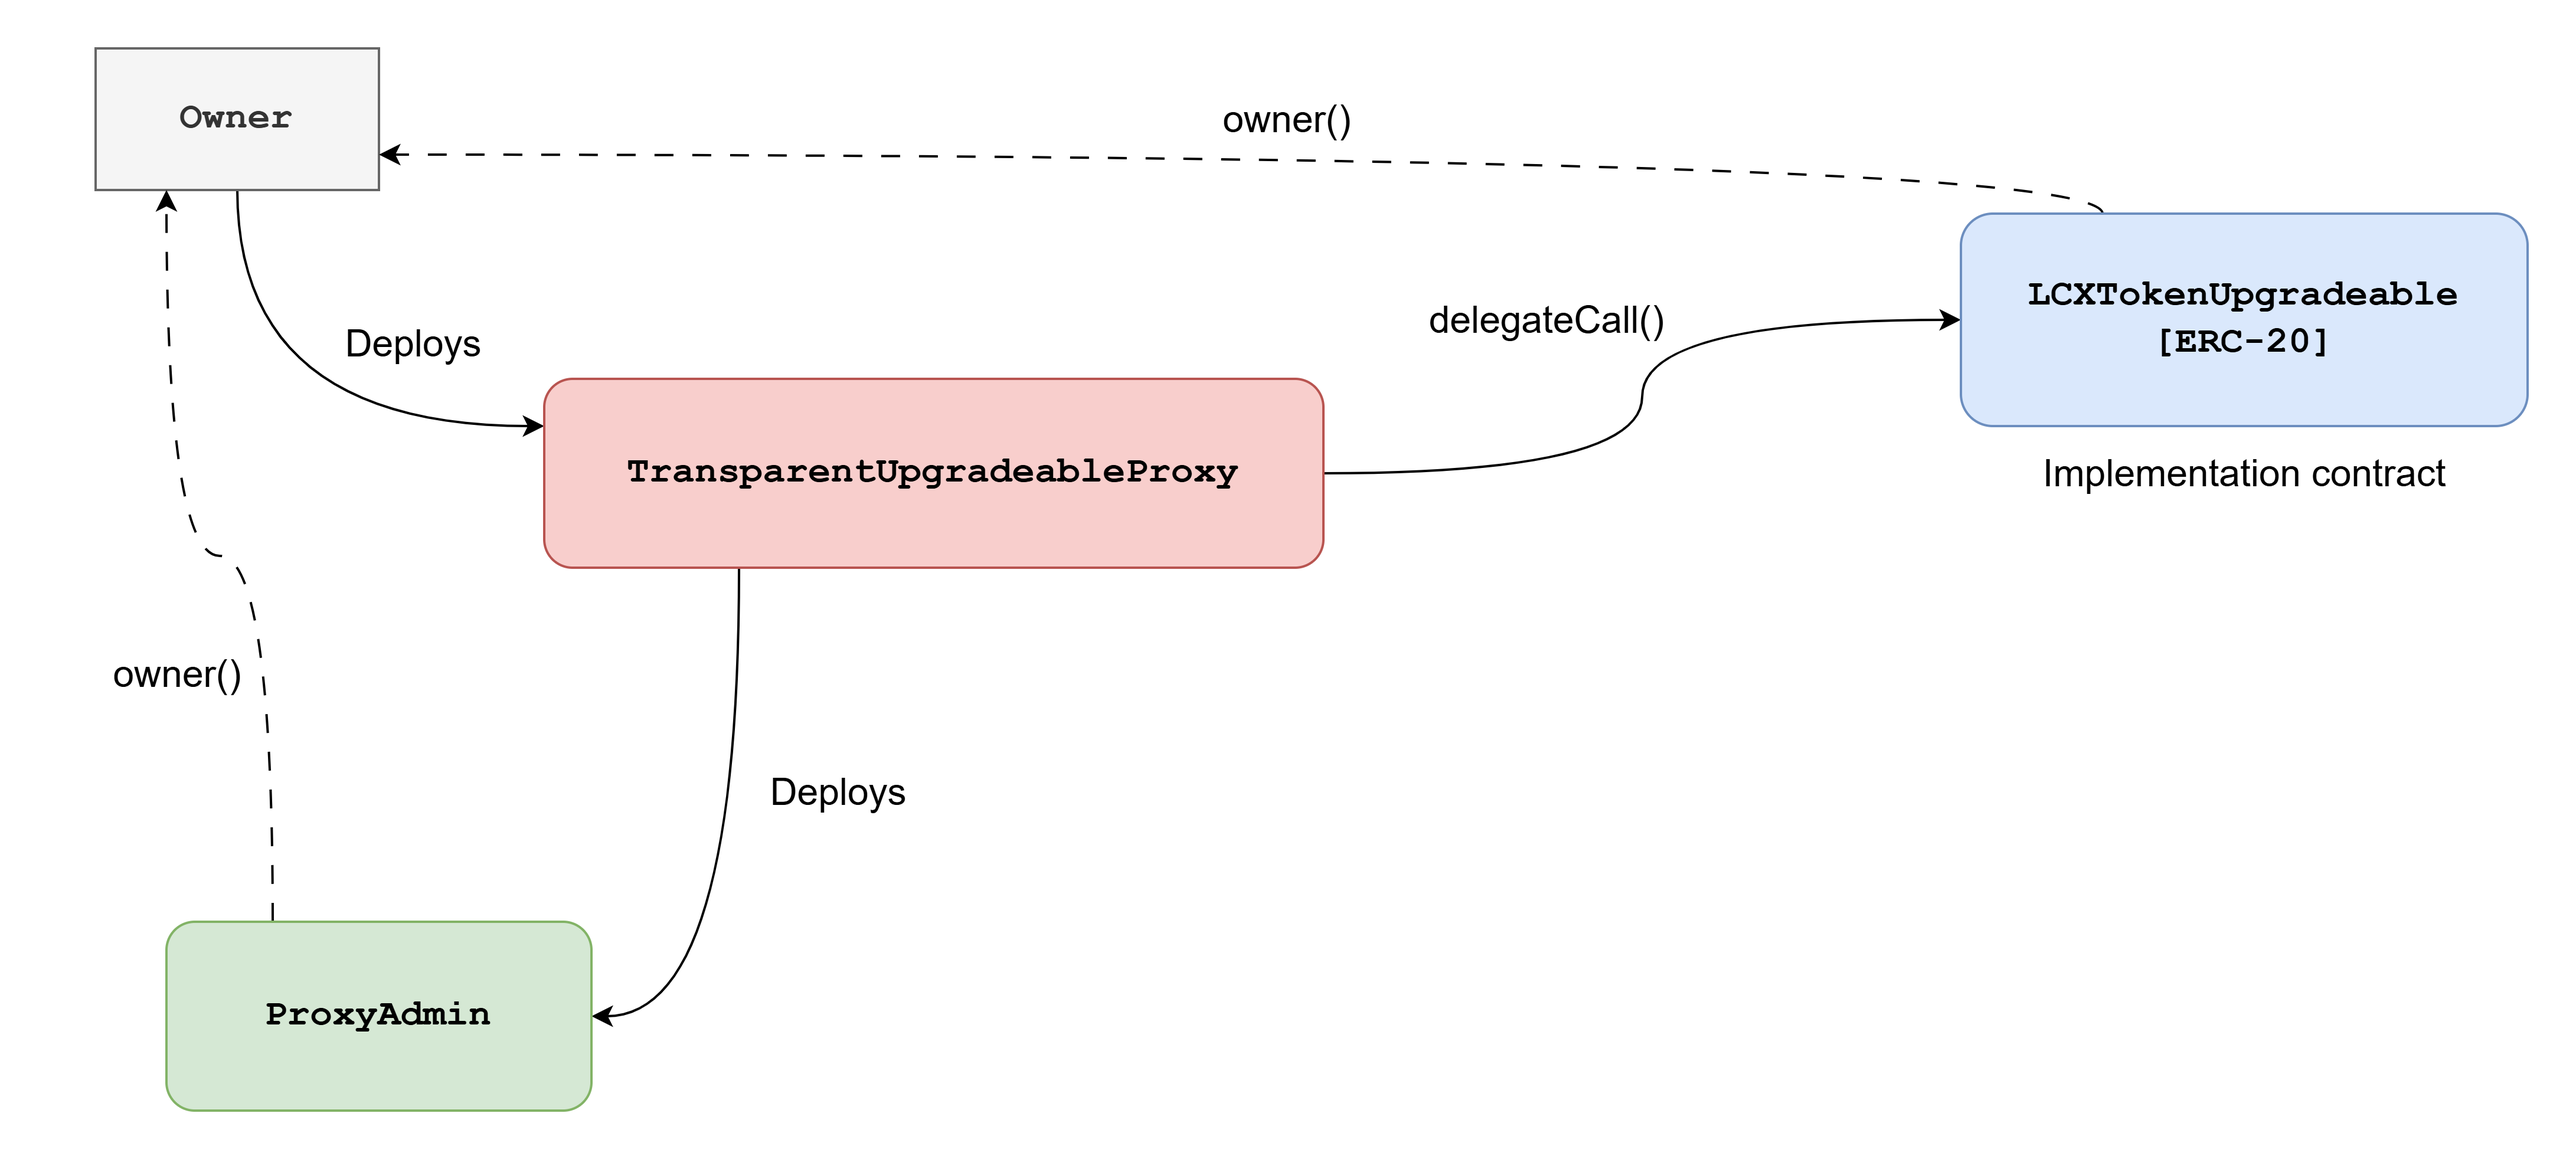
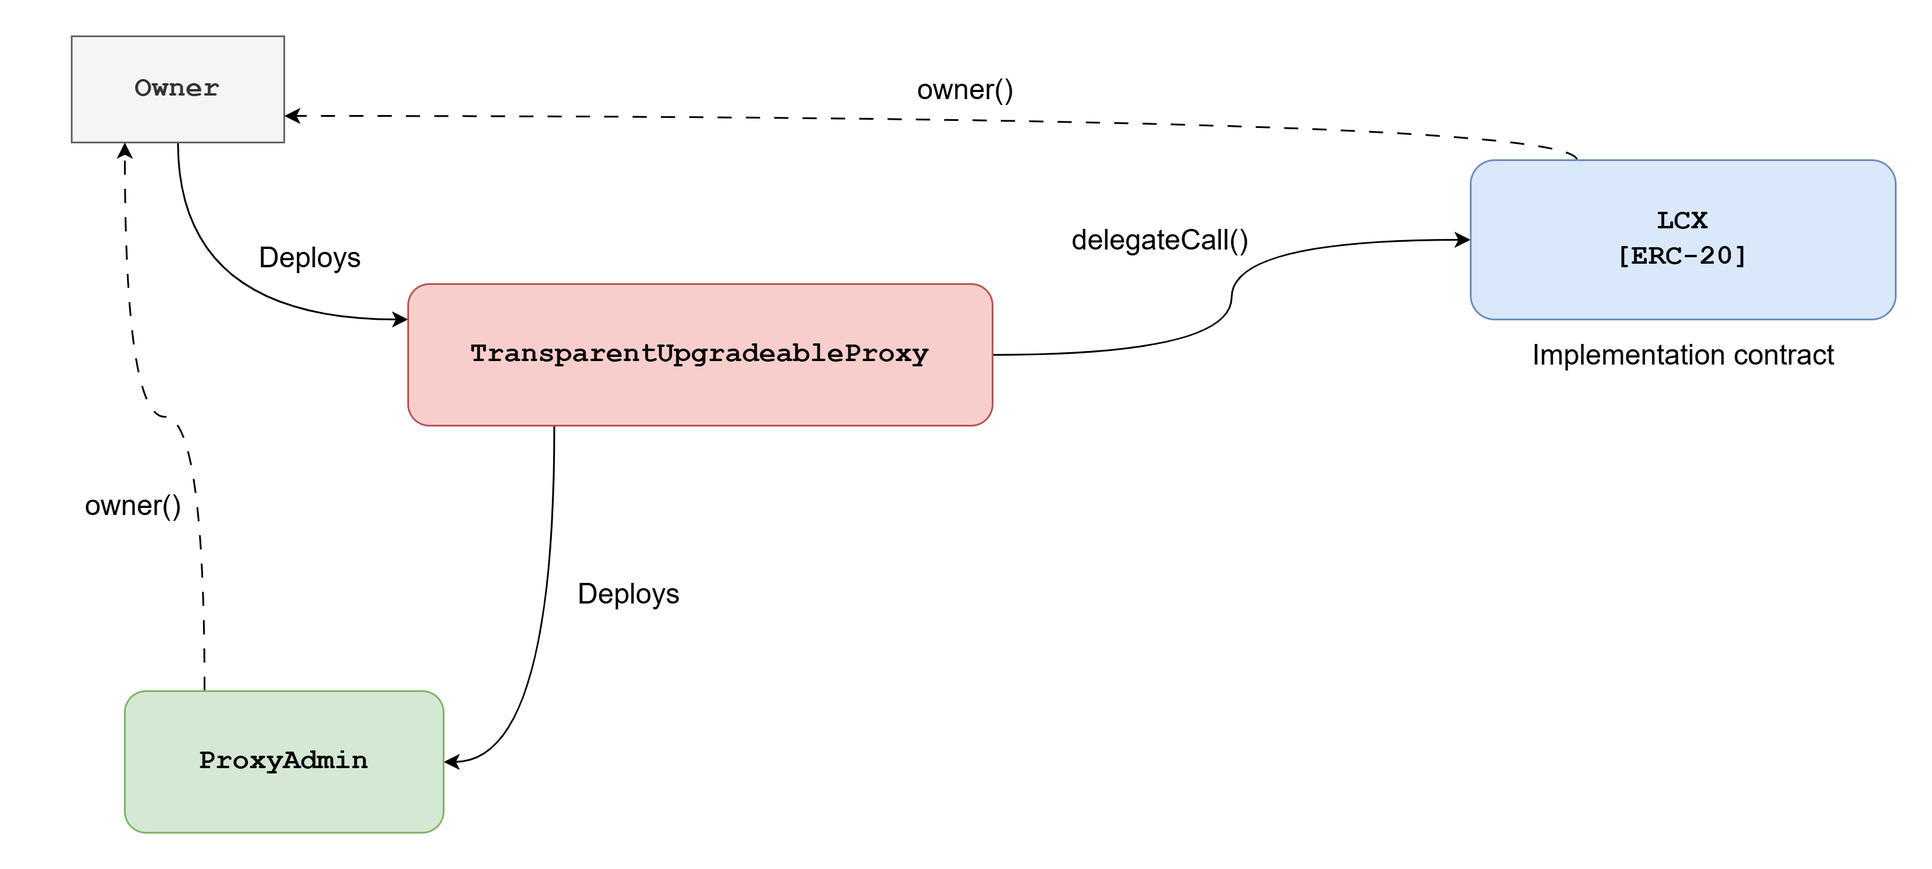
Rename contracts: remove 'Upgradeable'

Changed region(s): [[0.7791, 0.2498, 0.9661, 0.2811]]

diff --git a/test/LCXToken.test.ts b/test/LCXToken.test.ts
@@ -1,7 +1,7 @@
 import { expect } from "chai";
 import hre from "hardhat";
 import type { BaseContract } from "ethers";
-import { LCXTokenUpgradeable, LCXTokenUpgradeable__factory, ProxyAdmin, TransparentUpgradeableProxy, TransparentUpgradeableProxy__factory } from "../typechain-types";
+import { LCX, LCX__factory, ProxyAdmin, TransparentUpgradeableProxy, TransparentUpgradeableProxy__factory } from "../typechain-types";
 
 const { ethers } = hre;
 
@@ -11,13 +11,13 @@ describe("LCX Token", function () {
         const [owner] = await ethers.getSigners();
 
         // Deploy the implementation contract
-        const LCXTokenUpgradeableFactory = await ethers.getContractFactory("LCXTokenUpgradeable");
-        const implementation = await expect(LCXTokenUpgradeableFactory.deploy()).to.be.fulfilled;
+        const LcxFactory = await ethers.getContractFactory("LCX");
+        const implementation = await expect(LcxFactory.deploy()).to.be.fulfilled;
         await implementation.waitForDeployment();
 
         // Deploy the proxy
         const ProxyFactory = await ethers.getContractFactory("TransparentUpgradeableProxy");
-        const initData = LCXTokenUpgradeableFactory.interface.encodeFunctionData("initialize", [owner.address]);
+        const initData = LcxFactory.interface.encodeFunctionData("initialize", [owner.address]);
         const proxy = await expect(ProxyFactory.deploy(
             implementation,  // _logic
             owner,          // initialOwner for ProxyAdmin contract
@@ -25,11 +25,11 @@ describe("LCX Token", function () {
         )).to.be.fulfilled;
         await proxy.waitForDeployment();
 
-        const contract = LCXTokenUpgradeableFactory.attach(proxy) as LCXTokenUpgradeable;
+        const contract = LcxFactory.attach(proxy) as LCX;
 
         return {
             owner,
-            implementation: implementation as LCXTokenUpgradeable,
+            implementation: implementation as LCX,
             proxy: proxy as TransparentUpgradeableProxy,
             contract,
         };
@@ -70,7 +70,7 @@ describe("LCX Token", function () {
             await expect(
                 implementation.initialize(owner)
             ).to.be.revertedWithCustomError(
-                { interface: LCXTokenUpgradeable__factory.createInterface() },
+                { interface: LCX__factory.createInterface() },
                 "InvalidInitialization"
             );
         });
@@ -78,8 +78,8 @@ describe("LCX Token", function () {
         it("Should upgrade as per the transparent proxy pattern", async function () {
             const { owner, implementation, proxy } = await deploy();
 
-            const LCXTokenUpgradeableFactory = await ethers.getContractFactory("LCXTokenUpgradeable");
-            const newImplementation = await LCXTokenUpgradeableFactory.deploy();
+            const LcxFactory = await ethers.getContractFactory("LCX");
+            const newImplementation = await LcxFactory.deploy();
             await newImplementation.waitForDeployment();
 
             const proxyAdmin = await getProxyAdmin(proxy);
@@ -89,16 +89,16 @@ describe("LCX Token", function () {
         it("Should not allow zero address as the initial owner", async function () {
             const [owner] = await ethers.getSigners();
 
-            const LCXTokenUpgradeableFactory = await ethers.getContractFactory("LCXTokenUpgradeable");
-            const implementation = await LCXTokenUpgradeableFactory.deploy();
+            const LcxFactory = await ethers.getContractFactory("LCX");
+            const implementation = await LcxFactory.deploy();
             await implementation.waitForDeployment();
 
             const ProxyFactory = await ethers.getContractFactory("TransparentUpgradeableProxy");
-            const initData = LCXTokenUpgradeableFactory.interface.encodeFunctionData("initialize", [ethers.ZeroAddress]);
+            const initData = LcxFactory.interface.encodeFunctionData("initialize", [ethers.ZeroAddress]);
             await expect(
                 ProxyFactory.deploy(implementation, owner, initData)
             ).to.be.revertedWithCustomError(
-                { interface: LCXTokenUpgradeableFactory.interface },
+                { interface: LcxFactory.interface },
                 "OwnableInvalidOwner"
             ).withArgs(ethers.ZeroAddress);
         });

diff --git a/docs/DOCUMENTATION.md b/docs/DOCUMENTATION.md
@@ -2,7 +2,7 @@
 
 LCX is an upgradeable **ERC-20 compliant token** designed with additional features like **strict supply management**, **permission-based minting**, **blacklisting** for compliance, and emergency **pausing** of minting, transferring and burning of tokens.
 
-See [LCXTokenUpgradeable](/contracts/LCXTokenUpgradeable.sol)
+See [LCX token contract](/contracts/LCX.sol)
 
 ### Features Overview
 
@@ -32,7 +32,7 @@ See [LCXTokenUpgradeable](/contracts/LCXTokenUpgradeable.sol)
 
 -   The contract deployment architecture is based on the **Transparent Upgradeable Proxy** pattern with a ProxyAdmin contract. Details can be found in OpenZeppelin docs.
 -   The only difference here with **ProxyAdmin** is that it inherits **Ownable2Step** instead of Ownable as provided in the OpenZeppelin codebase.
--   A single `owner` account is used as the initial owner of both: the ERC-20 implementation contract (LCXTokenUpgradeable) as well as the ProxyAdmin.
+-   A single `owner` account is used as the initial owner of both: the ERC-20 implementation contract (LCX) as well as the ProxyAdmin.
 -   Deployment and upgrade demo can be found in `test/LCXToken.test.ts`: `describe("Deployment and upgrade")`
 
 ### Implementation Contract Logic
@@ -41,19 +41,21 @@ The implementation logic for the above proxy pattern is split across two Solidit
 
 ![Implementation Logic](assets/LCX_Token_Implementation_Logic.png)
 
-**LCXTokenAdminUpgradeable**  
-`contracts/LCXTokenAdminUpgradeable.sol`
+**LCXAdmin**
+
+`contracts/LCXAdmin.sol`
 
 -   Manages the admin related functionalities for the token
 -   Inherits `Ownable2StepUpgradeable`, `AccessControlEnumerableUpgradeable`, `PausableUpgradeable`
 -   Manages access control with these access roles: `OWNER_ROLE`, `MINTER_ROLE`, `PAUSER_ROLE`, `BLACKLISTER_ROLE`
 -   Manages blacklisted addresses
 
-**LCXTokenUpgradeable**  
-`contracts/LCXTokenUpgradeable.sol`
+**LCX**
+
+`contracts/LCX.sol`
 
 -   Manages the ERC-20 related functionalities of the token
--   Inherits `LCXTokenAdminUpgradeable`, `ERC20Upgradeable`
+-   Inherits `LCXAdmin`, `ERC20Upgradeable`
 -   Has additional functions for minting, burning, and increasing, decreasing allowance
 -   As per OpenZeppelin's latest ERC-20 implementation, providing an allowance of `type(uint256).max` (i.e. `2 ** 256 - 1`) grants _infinite allowance_ to the spender
 

diff --git a/README.md b/README.md
@@ -2,7 +2,7 @@
 
 LCX is an upgradeable **ERC-20 compliant token** designed with additional features like **strict supply management**, **permission-based minting**, **blacklisting** for compliance, and emergency **pausing** of minting, transferring and burning of tokens.
 
-See [LCXTokenUpgradeable](contracts/LCXTokenUpgradeable.sol)
+See [LCX token contract](contracts/LCX.sol)
 
 ### Features
 
